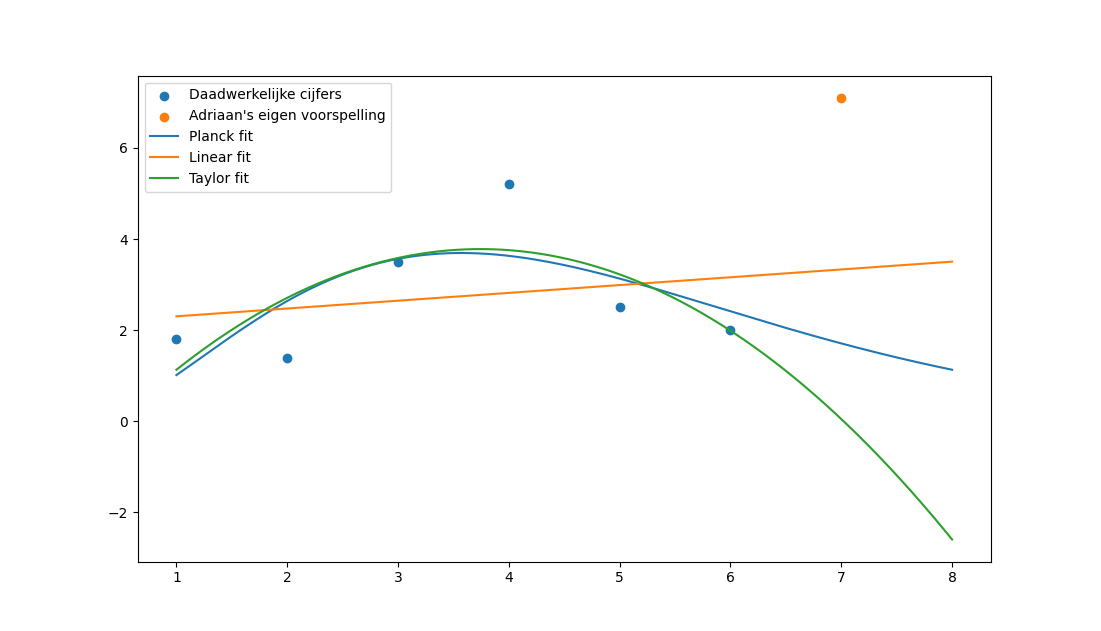
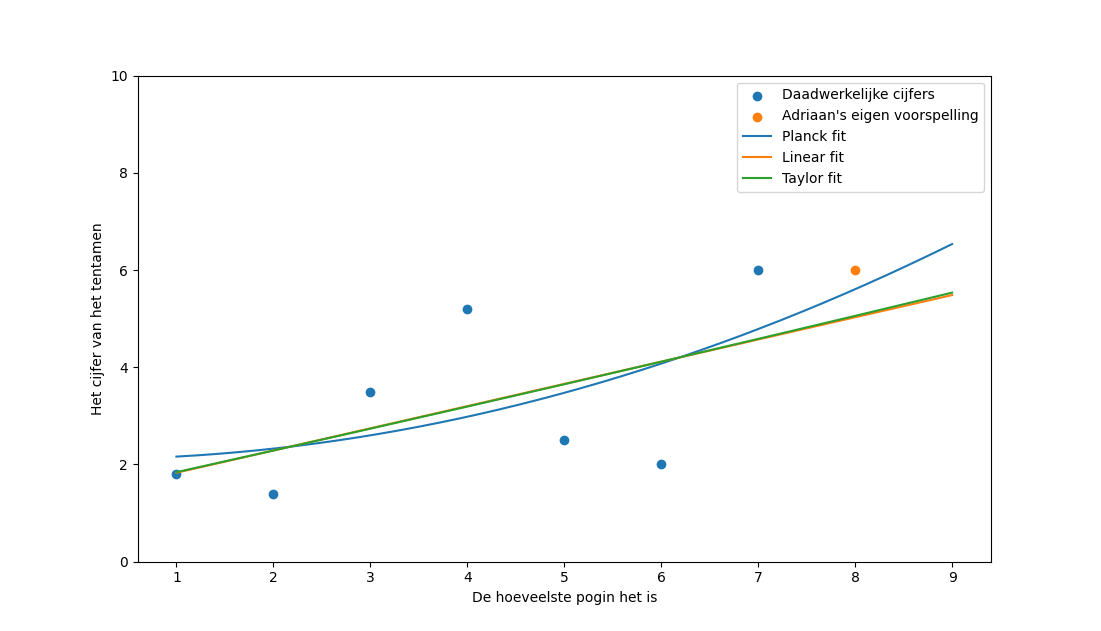
Update with new grade

diff --git a/index.html b/index.html
@@ -1,7 +1,7 @@
 <title>Heeft Adriaan mechanica al gehaald?</title>
 <h2>Heeft Adriaan mechanica al gehaald?</h2>
-<h1>NEE!!</h1>
-<h2><i>En we voorspellen dat hij voor zijn volgende tentamen een </i>1.7<i> gaat halen</i><h2>
-<h4><i>Hij denkt zelf dat hij een </i>7.1<i> zal halen</i></h4>
-<h4><i>Hij heeft al 6 tentamens gemaakt, en volgens onze lineaire fit zal hij zijn </i>17e<i> tentamen eindelijk halen</i></h4>
+<h1>Nee (maar wel het oefententamen)</h1>
+<h2><i>En we voorspellen dat hij voor zijn volgende tentamen een </i>5.1<i> gaat halen</i><h2>
+<h4><i>Hij denkt zelf dat hij een </i>6.0<i> zal halen</i></h4>
+<h4><i>Hij heeft al 7 tentamens gemaakt, en volgens onze lineaire fit zal hij zijn </i>9e<i> tentamen eindelijk halen</i></h4>
 <img src="fits.png">

diff --git a/fit.py b/fit.py
@@ -37,12 +37,12 @@ def fit_stuff(f, cijfers):
     )
 
 
-cijfers = [1.8, 1.4, 3.5, 5.2, 2.5, 2]
+cijfers = [1.8, 1.4, 3.5, 5.2, 2.5, 2, 6.0]
 xs = list(range(1, len(cijfers) + 1))
 
 
 plt.scatter(xs, cijfers, label="Daadwerkelijke cijfers")
-plt.scatter((7), (7.1), label="Adriaan's eigen voorspelling")
+plt.scatter((8), (6.0), label="Adriaan's eigen voorspelling")
 
 prediction, tentamen_halen, x_continuous, cijfers_continuous = fit_stuff(
     planck, cijfers
@@ -62,9 +62,9 @@ prediction, tentamen_halen, x_continuous, cijfers_continuous = fit_stuff(
 print(prediction, tentamen_halen)
 plt.plot(x_continuous, cijfers_continuous, label="Taylor fit")
 
-prediction, tentamen_halen, x_continuous, cijfers_continuous = fit_stuff(xsinx, cijfers)
-print(prediction, tentamen_halen)
-plt.plot(x_continuous, cijfers_continuous, label="XsinX fit")
+# prediction, tentamen_halen, x_continuous, cijfers_continuous = fit_stuff(xsinx, cijfers)
+# print(prediction, tentamen_halen)
+# plt.plot(x_continuous, cijfers_continuous, label="XsinX fit")
 
 
 plt.legend()
